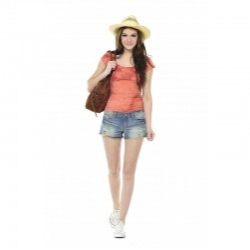
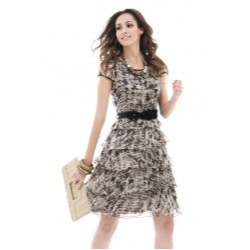
Teste08

Changed region(s): [[0.224, 0.028, 0.728, 1.0]]

diff --git a/Results/log.html b/Results/log.html
@@ -1735,25 +1735,25 @@ function stopPropagation(event) {
 window.output = {};
 </script>
 <script type="text/javascript">
-window.output["suite"] = [1,2,3,0,[],[1,0,18811],[[4,5,6,0,[],[1,28,18750],[],[[7,0,1,0,[8],[1,233,18542],[[1,9,10,0,11,0,0,0,[1,234,9508],[[0,12,13,0,14,15,0,0,[1,234,5366],[],[[234,2,16]]],[0,17,13,0,18,0,0,0,[1,5601,4141],[],[]]],[]],[0,19,10,0,0,20,0,0,[1,9743,4266],[[0,21,22,0,23,24,0,0,[1,9743,4266],[[0,20,10,0,25,0,0,0,[1,9744,4265],[[0,26,13,0,27,28,0,0,[1,9744,4258],[],[[9744,2,29]]],[0,30,13,0,31,32,0,0,[1,14002,7],[],[[14008,2,33]]]],[]]],[]]],[]],[0,34,10,0,0,35,0,0,[1,14010,299],[[0,21,22,0,23,24,0,0,[1,14010,299],[[0,35,10,0,0,0,0,0,[1,14010,299],[[0,36,13,0,37,38,0,0,[1,14010,299],[],[[14011,2,39]]]],[]]],[]]],[]],[0,40,10,0,0,41,0,0,[1,14310,1811],[[0,21,22,0,23,24,0,0,[1,14310,1811],[[0,41,10,0,0,0,0,0,[1,14310,1811],[[0,42,13,0,43,44,0,0,[1,14310,1811],[],[[14311,2,45]]]],[]]],[]]],[]],[0,34,10,0,0,46,0,0,[1,16122,37],[[0,21,22,0,23,24,0,0,[1,16123,36],[[0,46,10,0,0,0,0,0,[1,16123,36],[[0,47,13,0,48,49,0,0,[1,16124,14],[],[]],[0,50,13,0,51,52,0,0,[1,16138,17],[],[[16154,2,53]]],[0,30,13,0,31,54,0,0,[1,16155,4],[],[[16159,2,55]]]],[]]],[]]],[]],[0,56,10,0,0,57,0,0,[1,16160,408],[[0,21,22,0,23,24,0,0,[1,16160,408],[[0,57,58,0,0,0,0,0,[1,16161,407],[[0,59,13,0,60,61,0,0,[1,16161,11],[],[[16172,2,62]]],[0,59,13,0,60,63,0,0,[1,16172,12],[],[[16184,2,64]]],[0,65,13,0,66,67,0,0,[1,16184,383],[],[[16565,2,68]]]],[]]],[]]],[]],[2,69,10,0,0,0,0,0,[1,16570,2204],[[0,70,13,0,71,0,0,0,[1,16570,2203],[],[]]],[]]]]],[],[1,1,1,1]]],[],[],[1,1,1,1]];
+window.output["suite"] = [1,2,3,0,[],[1,0,19088],[[4,5,6,0,[],[1,38,19037],[],[[7,0,1,0,[8],[1,264,18801],[[1,9,10,0,11,0,0,0,[1,265,9566],[[0,12,13,0,14,15,0,0,[1,266,5424],[],[[266,2,16]]],[0,17,13,0,18,0,0,0,[1,5690,4141],[],[]]],[]],[0,19,10,0,0,20,0,0,[1,9831,4531],[[0,21,22,0,23,24,0,0,[1,9832,4529],[[0,20,10,0,25,0,0,0,[1,9832,4529],[[0,26,13,0,27,28,0,0,[1,9833,4520],[],[[9833,2,29]]],[0,30,13,0,31,32,0,0,[1,14353,8],[],[[14361,2,33]]]],[]]],[]]],[]],[0,34,10,0,0,35,0,0,[1,14362,291],[[0,21,22,0,23,24,0,0,[1,14363,289],[[0,35,10,0,0,0,0,0,[1,14363,289],[[0,36,13,0,37,38,0,0,[1,14364,288],[],[[14364,2,39]]]],[]]],[]]],[]],[0,40,10,0,0,41,0,0,[1,14656,1707],[[0,21,22,0,23,24,0,0,[1,14658,1704],[[0,41,10,0,0,0,0,0,[1,14658,1704],[[0,42,13,0,43,44,0,0,[1,14659,1703],[],[[14659,2,45]]]],[]]],[]]],[]],[0,34,10,0,0,46,0,0,[1,16364,46],[[0,21,22,0,23,24,0,0,[1,16364,46],[[0,46,10,0,0,0,0,0,[1,16364,46],[[0,47,13,0,48,49,0,0,[1,16365,19],[],[]],[0,50,13,0,51,52,0,0,[1,16384,20],[],[[16404,2,53]]],[0,30,13,0,31,54,0,0,[1,16405,5],[],[[16410,2,55]]]],[]]],[]]],[]],[0,56,10,0,0,57,0,0,[1,16411,463],[[0,21,22,0,23,24,0,0,[1,16412,462],[[0,57,58,0,0,0,0,0,[1,16412,462],[[0,59,13,0,60,61,0,0,[1,16412,18],[],[[16430,2,62]]],[0,59,13,0,60,63,0,0,[1,16430,16],[],[[16446,2,64]]],[0,65,13,0,66,67,0,0,[1,16446,427],[],[[16873,2,68]]]],[]]],[]]],[]],[2,69,10,0,0,0,0,0,[1,16878,2185],[[0,70,13,0,71,0,0,0,[1,16878,2185],[],[]]],[]]]]],[],[1,1,1,1]]],[],[],[1,1,1,1]];
 </script>
 <script type="text/javascript">
 window.output["strings"] = [];
 </script>
 <script type="text/javascript">
[2 lines of base64/hex data omitted]
 </script>
 <script type="text/javascript">
-window.output["stats"] = [[{"elapsed":"00:00:19","fail":0,"label":"Critical Tests","pass":1},{"elapsed":"00:00:19","fail":0,"label":"All Tests","pass":1}],[{"elapsed":"00:00:19","fail":0,"label":"TC07","pass":1}],[{"elapsed":"00:00:19","fail":0,"id":"s1","label":"Requisito","name":"Requisito","pass":1},{"elapsed":"00:00:19","fail":0,"id":"s1-s1","label":"Requisito.07 ValidarProdutosBlousesFemininas","name":"07 ValidarProdutosBlousesFemininas","pass":1}]];
+window.output["stats"] = [[{"elapsed":"00:00:19","fail":0,"label":"Critical Tests","pass":1},{"elapsed":"00:00:19","fail":0,"label":"All Tests","pass":1}],[{"elapsed":"00:00:19","fail":0,"label":"TC08","pass":1}],[{"elapsed":"00:00:19","fail":0,"id":"s1","label":"Requisito","name":"Requisito","pass":1},{"elapsed":"00:00:19","fail":0,"id":"s1-s1","label":"Requisito.08 ValidarProdutosEveningDressesFemininas","name":"08 ValidarProdutosEveningDressesFemininas","pass":1}]];
 </script>
 <script type="text/javascript">
 window.output["errors"] = [];
 </script>
 <script type="text/javascript">
-window.output["baseMillis"] = 1587412966554;
+window.output["baseMillis"] = 1587414930057;
 </script>
 <script type="text/javascript">
-window.output["generated"] = 18849;
+window.output["generated"] = 19158;
 </script>
 <script type="text/javascript">
 window.settings = {"defaultLevel":"INFO","minLevel":"INFO","reportURL":"report.html","rpa":false,"splitLogBase":"log","title":""};

diff --git a/Results/report.html b/Results/report.html
@@ -1585,22 +1585,22 @@ storage = function () {
 window.output = {};
 </script>
 <script type="text/javascript">
-window.output["suite"] = [1,2,3,0,[],[1,0,18811],[[4,5,6,0,[],[1,28,18750],[],[[7,0,1,0,[8],[1,233,18542],[]]],[],[1,1,1,1]]],[],[],[1,1,1,1]];
+window.output["suite"] = [1,2,3,0,[],[1,0,19088],[[4,5,6,0,[],[1,38,19037],[],[[7,0,1,0,[8],[1,264,18801],[]]],[],[1,1,1,1]]],[],[],[1,1,1,1]];
 </script>
 <script type="text/javascript">
 window.output["strings"] = [];
 </script>
 <script type="text/javascript">
-window.output["strings"] = window.output["strings"].concat(["*","*Requisito","*C:\\treinamento\\Cases\\01__Requisito","*../Cases/01__Requisito","*07 ValidarProdutosBlousesFemininas","*C:\\treinamento\\Cases\\01__Requisito\\07_ValidarProdutosBlousesFemininas.robot","*../Cases/01__Requisito/07_ValidarProdutosBlousesFemininas.robot","*TC07: Validar produtos Casual Dresses na tela","*TC07"]);
+window.output["strings"] = window.output["strings"].concat(["*","*Requisito","*C:\\treinamento\\Cases\\01__Requisito","*../Cases/01__Requisito","*08 ValidarProdutosEveningDressesFemininas","*C:\\treinamento\\Cases\\01__Requisito\\08_ValidarProdutosEveningDressesFemininas.robot","*../Cases/01__Requisito/08_ValidarProdutosEveningDressesFemininas.robot","*TC08: Validar produtos Evening Dresses na tela","*TC08"]);
 </script>
 <script type="text/javascript">
-window.output["stats"] = [[{"elapsed":"00:00:19","fail":0,"label":"Critical Tests","pass":1},{"elapsed":"00:00:19","fail":0,"label":"All Tests","pass":1}],[{"elapsed":"00:00:19","fail":0,"label":"TC07","pass":1}],[{"elapsed":"00:00:19","fail":0,"id":"s1","label":"Requisito","name":"Requisito","pass":1},{"elapsed":"00:00:19","fail":0,"id":"s1-s1","label":"Requisito.07 ValidarProdutosBlousesFemininas","name":"07 ValidarProdutosBlousesFemininas","pass":1}]];
+window.output["stats"] = [[{"elapsed":"00:00:19","fail":0,"label":"Critical Tests","pass":1},{"elapsed":"00:00:19","fail":0,"label":"All Tests","pass":1}],[{"elapsed":"00:00:19","fail":0,"label":"TC08","pass":1}],[{"elapsed":"00:00:19","fail":0,"id":"s1","label":"Requisito","name":"Requisito","pass":1},{"elapsed":"00:00:19","fail":0,"id":"s1-s1","label":"Requisito.08 ValidarProdutosEveningDressesFemininas","name":"08 ValidarProdutosEveningDressesFemininas","pass":1}]];
 </script>
 <script type="text/javascript">
-window.output["baseMillis"] = 1587412966554;
+window.output["baseMillis"] = 1587414930057;
 </script>
 <script type="text/javascript">
-window.output["generated"] = 18849;
+window.output["generated"] = 19158;
 </script>
 <script type="text/javascript">
 window.settings = {"background":{"fail":"#f66","nonCriticalFail":"#9e9","pass":"#9e9"},"logURL":"log.html","rpa":false,"title":""};
